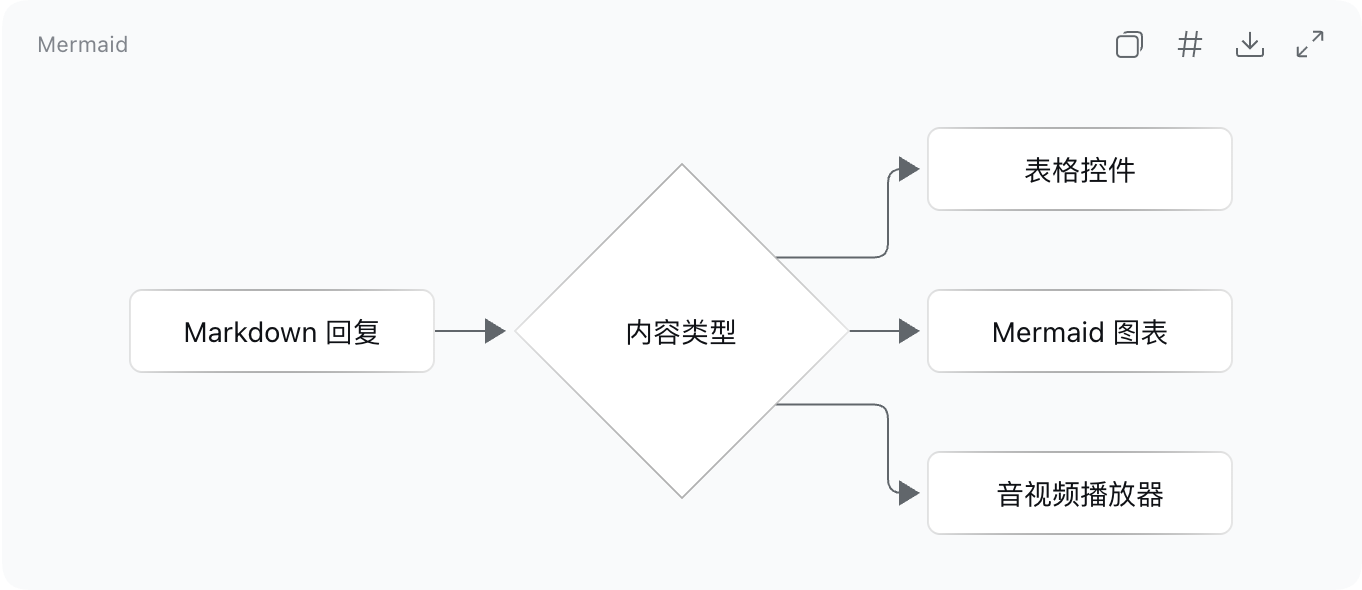
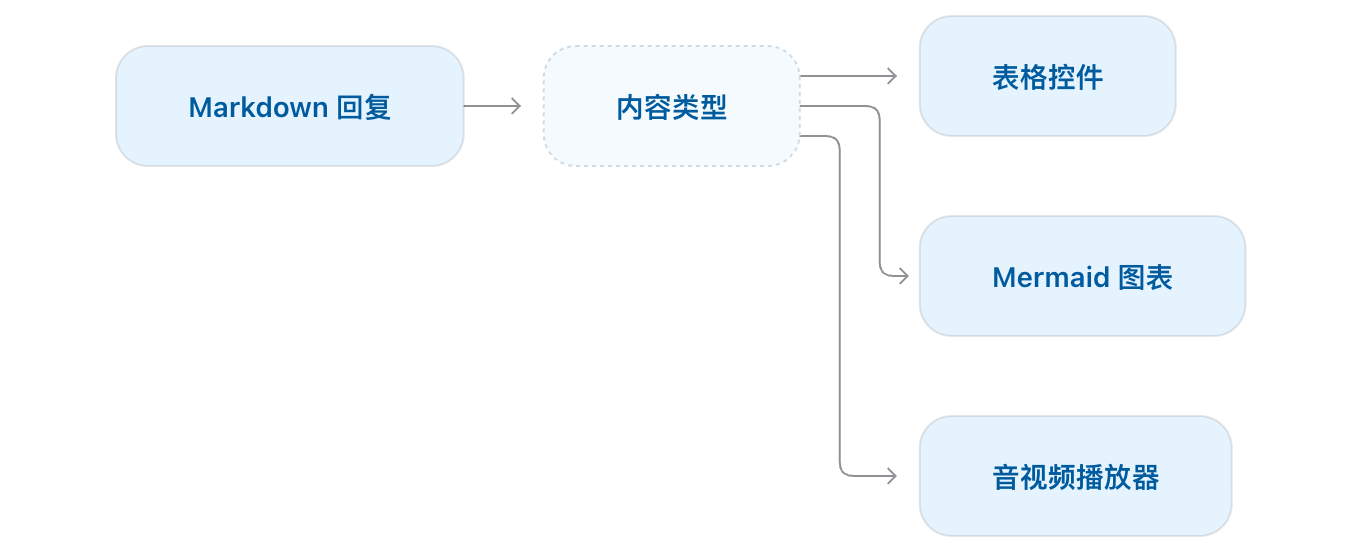
feat: 对齐 Codex Mermaid 图表控件
使用 ELK 布局适配圆角节点、虚线判断框、端口间距与开放箭头。将操作收进悬停菜单，增加 PNG 导出、固定窗口预览、底部缩放与拖动。

更新 README 截图和操作演示，通过 4 项单元测试、21 项真实宿主检查和两种插件加载顺序冷启动验证。

diff --git a/src/mermaid.jsx b/src/mermaid.jsx
@@ -1,0 +1,66 @@
+import React,{useState,useEffect,useLayoutEffect,useRef} from 'react';
+import {createPortal} from 'react-dom';
+import {Action,Menu} from './controls.jsx';
+import {renderDiagram} from './mermaid-render.js';
+
+function save(blob,name){const url=URL.createObjectURL(blob),a=document.createElement('a');a.href=url;a.download=name;a.click();setTimeout(()=>URL.revokeObjectURL(url),1000);}
+async function downloadImage(svg,dark){
+  const image=new Image(),url=URL.createObjectURL(new Blob([svg],{type:'image/svg+xml'}));
+  try{
+    image.src=url;await image.decode();const canvas=document.createElement('canvas');
+    canvas.width=image.naturalWidth*2;canvas.height=image.naturalHeight*2;
+    const ctx=canvas.getContext('2d');ctx.fillStyle=dark?'#181818':'#ffffff';ctx.fillRect(0,0,canvas.width,canvas.height);ctx.drawImage(image,0,0,canvas.width,canvas.height);
+    const png=await new Promise(resolve=>canvas.toBlob(resolve,'image/png'));if(!png)throw Error('PNG export failed');save(png,'mermaid-diagram.png');
+  }finally{URL.revokeObjectURL(url);}
+}
+
+function Viewer({svg,onClose,onDownload}){
+  const dialog=useRef(),viewport=useRef(),drag=useRef(),timer=useRef(),[closing,setClosing]=useState(false),[zoom,setZoom]=useState(1),[offset,setOffset]=useState({x:0,y:0}),[dragging,setDragging]=useState(false);
+  const close=()=>{if(closing)return;setClosing(true);timer.current=setTimeout(onClose,matchMedia('(prefers-reduced-motion: reduce)').matches?0:160);};
+  useLayoutEffect(()=>{
+    const previous=document.activeElement;dialog.current.showModal();dialog.current.querySelector('[aria-label="关闭图表预览"]').focus();
+    return()=>{clearTimeout(timer.current);dialog.current?.close();previous?.focus({preventScroll:true});};
+  },[]);
+  const adjust=value=>setZoom(current=>Math.min(4,Math.max(.25,current+value)));
+  return createPortal(<dialog ref={dialog} data-dcr-ui="" aria-label="图表预览" className={`dcr-graph-viewer${closing?' dcr-graph-viewer-closing':''}`} onCancel={event=>{event.preventDefault();close();}} onKeyDown={event=>{
+    if(['+','=','-','0'].includes(event.key)&&!event.ctrlKey&&!event.metaKey){event.preventDefault();if(event.key==='0'){setZoom(1);setOffset({x:0,y:0});}else adjust(event.key==='-'?-.25:.25);}
+  }}>
+    <div className="dcr-graph-viewer-actions"><Action variant="graph" label="下载图像" icon="download" onClick={onDownload}/><Action variant="graph" label="关闭图表预览" icon="close" onClick={close}/></div>
+    <div ref={viewport} className={`dcr-graph-canvas${dragging?' dcr-graph-dragging':''}`} onPointerDown={event=>{
+      if(event.button!==0)return;drag.current={x:event.clientX,y:event.clientY,offset};event.currentTarget.setPointerCapture(event.pointerId);setDragging(true);
+    }} onPointerMove={event=>{if(drag.current)setOffset({x:drag.current.offset.x+event.clientX-drag.current.x,y:drag.current.offset.y+event.clientY-drag.current.y});}} onPointerUp={()=>{drag.current=null;setDragging(false);}} onPointerCancel={()=>{drag.current=null;setDragging(false);}} onLostPointerCapture={()=>{drag.current=null;setDragging(false);}}>
+      <div className="dcr-graph-image" style={{transform:`translate(${offset.x}px,${offset.y}px) scale(${zoom})`}} dangerouslySetInnerHTML={{__html:svg}}/>
+    </div>
+    <div className="dcr-graph-zoom"><Action variant="graph" label="缩小图表" icon="minus" disabled={zoom<=.25} onClick={()=>adjust(-.25)}/><button className="dcr-zoom" type="button" aria-label="重置图表缩放" onClick={()=>{setZoom(1);setOffset({x:0,y:0});}}>{Math.round(zoom*100)}%</button><Action variant="graph" label="放大图表" icon="plus" disabled={zoom>=4} onClick={()=>adjust(.25)}/></div>
+  </dialog>,document.body);
+}
+
+export function MermaidCard({code}){
+  const [svg,setSvg]=useState(''),[error,setError]=useState(''),[source,setSource]=useState(false),[expanded,setExpanded]=useState(false),[palette,setPalette]=useState(null),[notice,setNotice]=useState(''),holder=useRef(),timer=useRef();
+  useEffect(()=>()=>clearTimeout(timer.current),[]);
+  useLayoutEffect(()=>{
+    let previous='';
+    const read=()=>{const style=getComputedStyle(holder.current),rgb=style.color.match(/[\d.]+/g),next={fontFamily:style.fontFamily,dark:rgb?Number(rgb[0])>128:matchMedia('(prefers-color-scheme: dark)').matches},key=JSON.stringify(next);if(key!==previous){previous=key;setPalette(next);}};
+    read();const observer=new MutationObserver(read);observer.observe(document.documentElement,{attributes:true});observer.observe(document.body,{attributes:true});
+    const scheme=matchMedia('(prefers-color-scheme: dark)');scheme.addEventListener('change',read);
+    return()=>{observer.disconnect();scheme.removeEventListener('change',read);};
+  },[]);
+  useEffect(()=>{
+    if(!palette)return;let live=true;
+    renderDiagram(code,palette,holder.current).then(result=>{if(live){setSvg(result);setError('');}},()=>{if(live){setSvg('');setError('图表无法渲染，请检查 Mermaid 语法。');}});
+    return()=>{live=false;};
+  },[code,palette]);
+  const notify=message=>{setNotice(message);clearTimeout(timer.current);timer.current=setTimeout(()=>setNotice(''),2000);};
+  const download=()=>downloadImage(svg,palette.dark).catch(()=>notify('下载失败，请重试。'));
+  return <div className="dcr-mermaid" aria-label="Mermaid 图表">
+    <div className="dcr-graph-tools"><Menu variant="graph" kind="graph" label="图表选项" items={[
+      {label:source?'显示图表':'显示源代码',icon:'code',onSelect:()=>setSource(!source)},
+      {label:'复制为代码',icon:'copy',onSelect:()=>navigator.clipboard.writeText(code).then(()=>notify('已复制'),()=>notify('复制失败，请重试。'))},
+      {label:'下载图像',icon:'download',disabled:!svg,onSelect:download}
+    ]}/><Action variant="graph" label="展开图表" icon="expand" disabled={!svg} onClick={()=>setExpanded(true)}/></div>
+    <div ref={holder} className="dcr-render-work" aria-hidden="true"/>
+    {source||error?<pre className="dcr-graph-source"><code>{code}</code></pre>:svg?<div className="dcr-diagram" dangerouslySetInnerHTML={{__html:svg}}/>:<p className="dcr-status" role="status">正在绘制图表…</p>}
+    {(error||notice)&&<p className="dcr-status dcr-graph-notice" role="status">{error||notice}</p>}
+    {expanded&&<Viewer svg={svg} onDownload={download} onClose={()=>setExpanded(false)}/>}
+  </div>;
+}

diff --git a/src/styles.css b/src/styles.css
@@ -19,23 +19,34 @@
 .dcr-preview-table th { position: sticky; top: 0; z-index: 1; background: var(--dsw-alias-bg-layer-2); }
 .dcr-preview-table button { cursor: pointer; }
 
-/* Graphs use the same quiet surface as DSH's code cards. */
-.dcr-mermaid { border: 0; border-radius: var(--dsw-radius-lg, 12px); background: var(--dsw-alias-markdown-code-block); color: var(--dsw-alias-label-primary); font-family: var(--dsw-font-family); }
-.dcr-mermaid { margin: 8px 0; overflow: hidden; }
-.dcr-mermaid > header { display: flex; align-items: center; justify-content: space-between; gap: 12px; }
-.dcr-mermaid > header { padding: 8px 12px 4px 18px; color: var(--dsw-alias-label-tertiary); font: 11px/18px var(--dsw-font-family); }
+/* Mermaid's content stays inline; controls appear only on interaction. */
+.dcr-mermaid { position: relative; margin: 8px 0; color: var(--dsw-alias-label-primary); font-family: var(--dsw-font-family); }
 .dcr-render-work { position: absolute; left: -100000px; top: 0; visibility: hidden; pointer-events: none; }
-.dcr-diagram { display: flex; align-items: center; justify-content: center; padding: 16px 20px 20px; overflow: auto; min-height: 100px; }
-.dcr-diagram .node rect,
-.dcr-diagram .node polygon { filter: none !important; }
-.dcr-diagram .node rect { rx: 6px; ry: 6px; }
-.dcr-diagram svg { max-width: 100%; max-height: 340px; width: auto; height: auto; }
-.dcr-diagram-expanded { padding: 16px 0; }
-.dcr-diagram-expanded svg { max-height: none; }
-.dcr-mermaid pre { margin: 0; padding: 8px 20px 20px; font: var(--dsw-font-markdown-code-block); white-space: pre-wrap; }
-.dcr-zoom { min-width: 40px; text-align: center; color: var(--dsw-alias-label-secondary); font: 11px/18px var(--dsw-font-family); }
+.dcr-diagram { display: flex; align-items: center; justify-content: center; min-height: 240px; overflow: hidden; }
+.dcr-diagram > svg { display: block; max-width: 100%; max-height: 480px; width: auto; height: auto; }
+.dcr-graph-tools { position: absolute; z-index: 1; top: 0; right: 0; display: flex; gap: 4px; opacity: 0; pointer-events: none; transition: opacity 150ms ease; }
+.dcr-mermaid:hover .dcr-graph-tools, .dcr-mermaid:focus-within .dcr-graph-tools { opacity: 1; pointer-events: auto; }
+.dcr-control-graph { width: 36px; height: 36px; border-radius: 50%; color: var(--dcr-secondary); cursor: default; }
+.dcr-graph-source { margin: 0; padding: 44px 16px 16px; border-radius: var(--dsw-radius-lg,12px); background: var(--dsw-alias-markdown-code-block); font: var(--dsw-font-markdown-code-block); white-space: pre-wrap; overflow-wrap: anywhere; }
 .dcr-status { margin: 0; padding: 8px 0; color: var(--dsw-alias-label-secondary); font: 12px/18px var(--dsw-font-family); }
-.dcr-mermaid .dcr-status { padding: 12px 20px; }
+.dcr-graph-notice { position: absolute; bottom: 0; left: 0; }
+.dcr-graph-viewer { box-sizing: border-box; position: fixed; inset: 0; width: 100vw; height: 100dvh; max-width: none; max-height: none; margin: 0; padding: 48px 32px 96px; border: 0; background: #181818; color: #1a1c1f; overflow: hidden; animation: dcr-graph-open 160ms ease-out both; }
+.dcr-graph-viewer::backdrop { background: #181818; }
+.dcr-graph-viewer-actions { position: absolute; top: 12px; right: 12px; display: flex; gap: 8px; }
+.dcr-graph-viewer .dcr-control-graph { width: 40px; height: 40px; background: #ffffff59; color: #1a1c1f; }
+.dcr-graph-viewer .dcr-control-graph:hover:not(:disabled) { background: #ffffff80; }
+.dcr-graph-canvas { display: flex; align-items: center; justify-content: center; height: 100%; border-radius: 18px; background: var(--dsw-alias-bg-layer-2); overflow: hidden; cursor: grab; touch-action: none; user-select: none; }
+.dcr-graph-dragging { cursor: grabbing; }
+.dcr-graph-image { flex: none; max-width: calc(100% - 32px); max-height: calc(100% - 32px); display: flex; align-items: center; justify-content: center; transform-origin: center; }
+.dcr-graph-image > svg { display: block; width: auto; height: auto; max-width: 100%; max-height: calc(100dvh - 176px); pointer-events: none; }
+.dcr-graph-zoom { position: absolute; bottom: 32px; left: 50%; transform: translateX(-50%); display: flex; align-items: center; gap: 4px; padding: 4px; border-radius: 9999px; background: #ffffff59; }
+.dcr-graph-zoom .dcr-control-graph { width: 36px; height: 36px; background: #0000000d; }
+.dcr-zoom { width: 64px; border: 0; padding: 0; background: none; color: inherit; font: 13px/20px var(--dsw-font-family); cursor: default; }
+.dcr-graph-viewer-closing { animation: dcr-graph-close 160ms ease-in forwards; pointer-events: none; }
+@keyframes dcr-graph-open { from { opacity: 0; } }
+@keyframes dcr-graph-close { to { opacity: 0; } }
+@media (hover: none) { .dcr-graph-tools { opacity: 1; pointer-events: auto; } }
+@media (prefers-reduced-motion: reduce) { .dcr-graph-tools { transition: none; } .dcr-graph-viewer { animation: none; } }
 /* Match General Settings' native DeveloperToolsRow geometry. */
 .dcr-setting-row { display: flex; justify-content: space-between; align-items: center; gap: 24px; padding: 16px 0; border-bottom: .5px solid var(--dsw-alias-border-l2); }
 .dcr-setting-title { font-size: 14px; line-height: 20px; font-weight: 400; }
@@ -45,7 +56,7 @@
 @media (prefers-reduced-motion: reduce) { .dcr-closing { animation: none !important; } .dcr-table-tools { transition: none; } }
 
 /* Widget controls have their own geometry; General Settings keeps DSH's primitives. */
-.dcr-media, .dcr-tooltip, .dcr-menu {
+.dcr-media, .dcr-tooltip, .dcr-menu, .dcr-mermaid {
   --dcr-surface: var(--dsw-alias-bg-layer-2);
   --dcr-text: var(--dsw-alias-label-primary);
   --dcr-secondary: var(--dsw-alias-label-secondary);
@@ -128,3 +139,6 @@
 
 .dcr-menu.dcr-menu-closing { animation: dcr-menu-leave 100ms ease-in forwards; pointer-events: none; }
 @keyframes dcr-menu-leave { to { opacity: 0; } }
+
+/* Graph actions stay circular, independently of media corner smoothing. */
+.dcr-control-graph { corner-shape: round; }

diff --git a/src/mermaid-render.js b/src/mermaid-render.js
@@ -1,0 +1,69 @@
+import mermaid from 'mermaid';
+import elkLayouts from '@mermaid-js/layout-elk';
+
+// Keep the public ELK loader contract; never rewrite the user's Mermaid source.
+const elk=elkLayouts.find(layout=>layout.name==='elk');
+mermaid.registerLayoutLoaders([{...elk,name:'dcr-flowchart',loader:async()=>{
+  const renderer=await elk.loader();
+  return {render(data,svg,helpers,options){
+    for(const node of /^flowchart/.test(data.type)?data.nodes:[]){
+      if(node.isGroup)continue;
+      if(['diamond','diam','decision','question'].includes(node.shape)){
+        node.shape='rect';node.cssClasses=`${node.cssClasses??''} dcr-decision`;
+      }
+      if(['rect','squareRect','proc','process','rectangle','rounded','roundedRect'].includes(node.shape)){
+        node.shape='rect';node.padding=16;node.labelPaddingX=36;node.height=Math.max(node.height??0,60);node.spreadPorts=true;
+      }
+    }
+    return renderer.render(data,svg,helpers,{...options,rootLayoutOptions:{...options?.rootLayoutOptions,'elk.spacing.portPort':15}});
+  }};
+}}]);
+
+export function graphTheme({dark,fontFamily}){
+  const fill=dark?'#00284d':'#e5f3ff',text=dark?'#85c6ff':'#005b9e',line=dark?'#6f747a':'#8f9195',border=dark?'rgba(255,255,255,.1)':'rgba(0,0,0,.1)',decision=dark?'#000e1a':'#f5faff',decisionBorder=dark?'#1a3e5f':'#cedbe5';
+  return {startOnLoad:false,securityLevel:'strict',suppressErrorRendering:true,htmlLabels:false,theme:'base',look:'classic',fontFamily,darkMode:dark,
+    themeVariables:{fontFamily,fontSize:'14px',primaryColor:fill,primaryTextColor:text,primaryBorderColor:border,lineColor:line,mainBkg:fill,nodeBorder:border,clusterBkg:decision,clusterBorder:decisionBorder,edgeLabelBackground:decision},
+    themeCSS:`.node text,.node tspan{font-weight:600!important;line-height:21px}.node rect{rx:16px;ry:16px}.node .label-container{filter:none!important}.node.dcr-decision .label-container{fill:${decision};stroke:${decisionBorder};stroke-dasharray:2 2}.edgePaths .flowchart-link{stroke-width:1px;stroke-linecap:round;stroke-linejoin:round}.marker{fill:none;stroke:${line};stroke-width:1px}`,
+    layout:'dcr-flowchart',elk:{preset:'legacy'},flowchart:{htmlLabels:false,useMaxWidth:false,curve:'linear',nodeSpacing:40,rankSpacing:40,minNodeWidth:0},sequence:{useMaxWidth:false}};
+}
+
+function roundEdges(svg,dark){
+  const root=new DOMParser().parseFromString(svg,'image/svg+xml').documentElement;
+  for(const marker of root.querySelectorAll('marker[id$="pointEnd"],marker[id$="pointStart"]')){
+    marker.setAttribute('markerWidth','10');marker.setAttribute('markerHeight','10');marker.setAttribute('viewBox','0 0 10 10');marker.setAttribute('refX','5');marker.setAttribute('refY','5');marker.setAttribute('overflow','visible');
+    const path=marker.querySelector('path');if(path){path.setAttribute('d',marker.id.endsWith('pointStart')?'M 9 1 L 5 5 L 9 9':'M 1 1 L 5 5 L 1 9');path.style.fill='none';path.style.stroke=dark?'#6f747a':'#8f9195';}
+  }
+  for(const path of root.querySelectorAll('.flowchart-link')){
+    const d=path.getAttribute('d');if(!/^M[\d\s.,e+\-LQ]+$/i.test(d))continue;
+    // Mermaid records the original orthogonal route before rounding. Rebuild
+    // that route with a small arrow gap, including multi-segment branches.
+    const encoded=path.getAttribute('data-points');if(!encoded)continue;
+    const points=JSON.parse(atob(encoded));if(points.length<2)continue;
+    for(const [at,neighbor,marker] of [[0,1,'marker-start'],[points.length-1,points.length-2,'marker-end']]){
+      if(!path.getAttribute(marker)?.includes('point'))continue;
+      const a=points[at],b=points[neighbor],distance=Math.hypot(b.x-a.x,b.y-a.y),gap=Math.min(12,Math.max(0,distance/2-4));
+      if(distance){a.x+=(b.x-a.x)*gap/distance;a.y+=(b.y-a.y)*gap/distance;}
+    }
+    let rounded=`M${points[0].x},${points[0].y}`;
+    for(let i=1;i<points.length-1;i++){
+      const a=points[i-1],b=points[i],c=points[i+1],before=Math.hypot(b.x-a.x,b.y-a.y),after=Math.hypot(c.x-b.x,c.y-b.y),r=Math.min(10*Math.SQRT1_2,before/2,after/2);
+      if(!r||Math.abs((b.x-a.x)*(c.y-b.y)-(b.y-a.y)*(c.x-b.x))<.01){rounded+=`L${b.x},${b.y}`;continue;}
+      rounded+=`L${b.x-(b.x-a.x)*r/before},${b.y-(b.y-a.y)*r/before}Q${b.x},${b.y} ${b.x+(c.x-b.x)*r/after},${b.y+(c.y-b.y)*r/after}`;
+    }
+    const end=points.at(-1);path.setAttribute('d',`${rounded}L${end.x},${end.y}`);
+  }
+  return new XMLSerializer().serializeToString(root);
+}
+
+// Mermaid's configuration is global. Serialize initialization and rendering so
+// simultaneous cards/theme updates cannot paint with another card's palette.
+let pending=Promise.resolve();
+export function renderDiagram(code,palette,holder){
+  const task=pending.then(async()=>{
+    if(!holder.isConnected)throw Error('Diagram removed');
+    mermaid.initialize(graphTheme(palette));
+    const result=await mermaid.render(`dcr-${crypto.randomUUID()}`,code,holder);
+    return roundEdges(result.svg,palette.dark);
+  });
+  pending=task.catch(()=>{});return task;
+}

diff --git a/src/components.jsx b/src/components.jsx
@@ -69,37 +69,7 @@ function saveBlob(blob,name) {
   const url=URL.createObjectURL(blob),link=document.createElement('a');link.href=url;link.download=name;link.click();setTimeout(()=>URL.revokeObjectURL(url),1000);
 }
 
-export function MermaidCard({code}) {
-  const [svg,setSvg]=useState(''),[error,setError]=useState(''),[source,setSource]=useState(false),[expanded,setExpanded]=useState(false),[zoom,setZoom]=useState(1),[palette,setPalette]=useState(null),holder=useRef();
-  useLayoutEffect(()=>{
-    let previous='';
-    const read=()=>{const style=getComputedStyle(holder.current),token=name=>style.getPropertyValue(name).trim(),next={fontFamily:style.fontFamily,fontSize:'14px',primaryColor:token('--dsw-alias-bg-layer-2'),primaryTextColor:token('--dsw-alias-label-primary'),primaryBorderColor:token('--dsw-alias-border-l2'),lineColor:token('--dsw-alias-label-secondary'),edgeLabelBackground:token('--dsw-alias-markdown-code-block')},key=JSON.stringify(next);if(key!==previous){previous=key;setPalette(next);}};
-    read();
-    const observer=new MutationObserver(read);observer.observe(document.documentElement,{attributes:true});observer.observe(document.body,{attributes:true});
-    const scheme=matchMedia('(prefers-color-scheme: dark)');scheme.addEventListener('change',read);
-    return()=>{observer.disconnect();scheme.removeEventListener('change',read);};
-  },[]);
-  useEffect(()=>{
-    if(!palette)return;
-    let live=true;setSvg('');setError('');
-    (async()=>{
-      try {
-        const {default:mermaid}=await import('mermaid');
-        mermaid.initialize({startOnLoad:false,securityLevel:'strict',suppressErrorRendering:true,htmlLabels:false,theme:'base',fontFamily:palette.fontFamily,themeVariables:palette,flowchart:{htmlLabels:false,curve:'basis'}});
-        const result=await mermaid.render(`dcr-${crypto.randomUUID()}`,code,holder.current);
-        if(live)setSvg(result.svg);
-      } catch(e) {if(live)setError('图表无法渲染，请检查 Mermaid 语法。');}
-    })();
-    return()=>{live=false;};
-  },[code,palette]);
-  const actions=<><Copy label="复制 Mermaid 源码" getValue={()=>code}/><Action label="显示源码" icon="code" pressed={source} onClick={()=>setSource(!source)}/><Action label="下载 SVG" icon="download" disabled={!svg} onClick={()=>saveBlob(new Blob([svg],{type:'image/svg+xml'}),'diagram.svg')}/><Action label="展开图表" icon="expand" disabled={!svg} onClick={()=>{setZoom(1);setExpanded(true);}}/></>;
-  return <div className="dcr-mermaid" aria-label="Mermaid 图表">
-    <header><span>Mermaid</span><div className="dcr-actions">{actions}</div></header>
-    <div ref={holder} className="dcr-render-work" aria-hidden="true"/>
-    {source||error?<><pre><code>{code}</code></pre>{error&&<p className="dcr-status" role="status">{error}</p>}</>:svg?<div className="dcr-diagram" dangerouslySetInnerHTML={{__html:svg}}/>:<p className="dcr-status" role="status">正在绘制图表…</p>}
-    {expanded&&<Modal title="图表预览" onClose={()=>setExpanded(false)} actions={<><Action label="缩小图表" icon="minus" disabled={zoom<=.5} onClick={()=>setZoom(Math.max(.5,zoom-.25))}/><span className="dcr-zoom">{Math.round(zoom*100)}%</span><Action label="放大图表" icon="plus" disabled={zoom>=3} onClick={()=>setZoom(Math.min(3,zoom+.25))}/></>}><div className="dcr-diagram dcr-diagram-expanded" style={{zoom}} dangerouslySetInnerHTML={{__html:svg}}/></Modal>}
-  </div>;
-}
+export {MermaidCard} from './mermaid.jsx';
 
 const time=value=>`${Math.floor(value/60)}:${String(Math.floor(value%60)).padStart(2,'0')}`;
 export function MediaCard({item}) {

diff --git a/docs/codex-mermaid-parity.md b/docs/codex-mermaid-parity.md
@@ -1,0 +1,51 @@
+# Mermaid 控件校准
+
+更新版本：0.3.0，校验日期：2026-10-14。
+
+旧版使用普通 Mermaid 节点与 DSH 代码卡片，判断框、字重、连线、操作入口和展开预览都与 Codex 有明显差异。新版为流程图增加独立布局适配，并重新实现图表操作和查看器。
+
+![Codex、旧版和新版对照](../assets/mermaid-comparison.png)
+
+## 参考与截图来源
+
+Codex 参考来自本机 26.1007.30912 安装包的生产 Mermaid 组件，使用实际组件和样式在隔离 Chrome 中离线渲染，指定默认聊天配色。没有停止或重启 Codex。DSH 截图来自本机 0.2.0-rc.2 的真实 Web 宿主，使用隔离配置和本地模拟模型返回同一份源码。
+
+对照覆盖默认图表、悬停、选项菜单、展开、125% 缩放、340px 窄容器和深色模式。参考截图中源码编辑器由 Codex 宿主提供，本次只核对其菜单入口；插件使用行内源码切换。
+
+## 测量结果
+
+以 README 的五节点流程图为基准，单位为 CSS px：
+
+| 项目 | Codex 参考 | 旧版 0.2.2 | 新版 0.3.0 |
+| --- | --- | --- | --- |
+| 行内容器 | 680×276，透明背景 | 680×295，灰色标题卡片 | 680×276，透明背景 |
+| Markdown 回复节点 | 173.86×60 | 约 152×41 | 173.86×60 |
+| 内容类型判断框 | 128×60，虚线圆角框 | 167×167，菱形 | 128×60，虚线圆角框 |
+| 表格控件节点 | 128×60 | 152×41 | 128×60 |
+| Mermaid 图表节点 | 162.89×60 | 152×41 | 162.89×60 |
+| 音视频播放器节点 | 156×60 | 152×41 | 156×60 |
+| 节点字号与字重 | 14px / 600 | 14px / 400 | 14px / 600 |
+| 操作按钮 | 2 个 36px 圆形按钮，悬停出现 | 4 个 28px 常驻按钮 | 2 个 36px 圆形按钮，悬停出现 |
+| 窄容器 | 340×240 | 340×192 | 340×240 |
+| 展开窗口 | 1200×900 | 960×357 | 1200×900 |
+| 放大一次 | 125%，窗口不变 | 125%，窗口增高 | 125%，窗口不变 |
+
+该样例的节点位置和 SVG 边界已对齐。不同 Mermaid/ELK 版本仍可能使复杂图的路由、短连接末端圆弧有少量差异。图表使用 DSH 字体和外观变量；菜单、预览的动画按插件实现，不代表逐帧复用 Codex。
+
+## 实现与交互
+
+- 通过 Mermaid 的公开 `registerLayoutLoaders` 接口包装官方 ELK 加载器，设置流程图节点尺寸与端口间距；保留分组、圆形等其他节点形状。
+- 判断框使用虚线圆角样式，分支连线使用细线、圆角拐点和开放箭头。
+- 图表选项提供「显示源代码」「复制为代码」「下载图像」。复制保留原始源码，图片按两倍分辨率导出 PNG。
+- 展开查看器覆盖窗口，底部控制缩放，拖动平移；支持 Esc 关闭、焦点返回、打开和关闭动画，以及减少动态效果偏好。
+- 绘制任务串行执行，避免多个图表与主题更新争用 Mermaid 的全局配置。
+
+使用的 Mermaid 和 ELK 依赖均随插件打包，不加载外部 CDN。公开扩展接口见 [Mermaid 布局文档](https://mermaid.js.org/community/layout-makers-guide.html)。
+
+![展开图表](../assets/mermaid-expanded.png)
+
+## 验证
+
+`npm run check` 通过：4 项单元测试、21 项真实宿主检查，以及与批注插件的两种加载顺序冷启动检查。宿主无页面异常。
+
+检查覆盖节点尺寸、悬停菜单、原始源码复制、PNG 文件与尺寸、缩放时窗口固定、拖动、关闭动画与焦点、主题切换、时序图、分组、圆形节点、边标签、回路和连续启停清理。表格、音视频的既有交互检查同时通过。

diff --git a/README.md b/README.md
@@ -1,13 +1,13 @@
 # DSH Codex Renderer
 
-为 DeepSeek Harness 增加表格、Mermaid 图表与音视频播放器，表格与图表沿用 DSH 原生样式，音视频按 Codex 桌面端的控件布局实现。
+为 DeepSeek Harness 增加表格、Mermaid 图表与音视频播放器，表格沿用 DSH 原生样式，Mermaid 与音视频参照 Codex 桌面端的控件布局实现。
 
 ## 功能
 
 | 组件 | 功能 |
 | --- | --- |
 | 表格 | 悬停工具栏、复制表格、展开预览、保留横向滚动 |
-| Mermaid | 图表渲染、源码切换、源码复制、SVG 下载、预览缩放 |
+| Mermaid | 圆角节点、虚线判断框、悬停菜单、PNG 导出、展开缩放与拖动 |
 | 音频 | 播放与暂停、时间轴定位、进度显示、文件下载 |
 | 视频 | 自定义播放条、定位、音量、倍速、全屏、画中画 |
 
@@ -23,9 +23,15 @@
 
 ### Mermaid 图表
 
-自动识别 `mermaid` 代码块并生成图表。支持切换源码、复制源码、下载 SVG 和放大预览。
+自动识别 `mermaid` 代码块。流程图采用 ELK 布局、60px 圆角节点、虚线判断框与细折线，支持浅色和深色外观。
+
+悬停时显示「图表选项」和「展开图表」。菜单提供源码切换、原始源码复制和两倍分辨率 PNG 下载。展开后可以拖动图表，使用底部控件缩放，按 Esc 关闭；窗口大小保持固定。
 
 ![Mermaid 图表](assets/mermaid.png)
+
+![Mermaid 悬停菜单与源码切换演示](assets/mermaid-demo.gif)
+
+同一份源码的节点、菜单、预览、窄容器与深色外观，对照见 [Mermaid 校准记录](docs/codex-mermaid-parity.md)。
 
 ### 音视频
 
@@ -50,7 +56,7 @@ npm pack
 安装到桌面端：
 
 ```sh
-dsh plugin --profile desktop add "$PWD/deepseekharness-plugin-dsh-codex-renderer-0.2.2.tgz"
+dsh plugin --profile desktop add "$PWD/deepseekharness-plugin-dsh-codex-renderer-0.3.0.tgz"
 ```
 
 然后在 DSH 的「插件」页面确认「回复渲染增强」已启用。
@@ -98,7 +104,7 @@ npm run demo:media
 
 ## 音视频控件对齐
 
-音频的附件行和视频操作条按 Codex 原组件的截图与尺寸实现，对比覆盖 20 个状态，包括播放、悬停、拖动、菜单、音量、全屏、窄宽度与深色模式。表格与图表保持原有布局，设置仍使用 DSH 原生组件。
+音频的附件行和视频操作条按 Codex 原组件的截图与尺寸实现，对比覆盖 20 个状态，包括播放、悬停、拖动、菜单、音量、全屏、窄宽度与深色模式。表格保持原有布局，设置仍使用 DSH 原生组件。
 
 ![音频控件对照](assets/audio-comparison.png)
 
